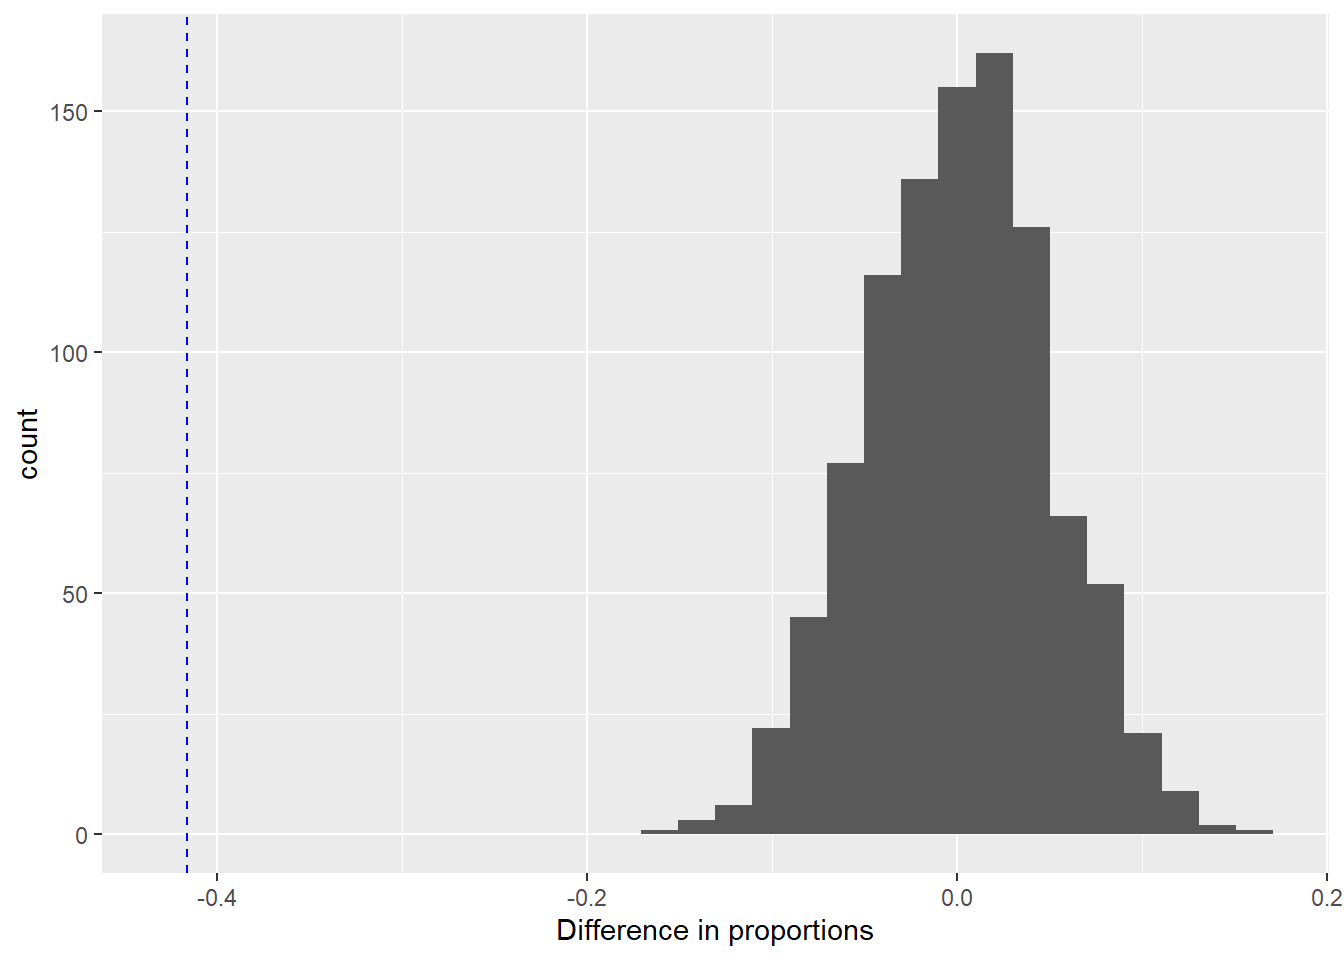
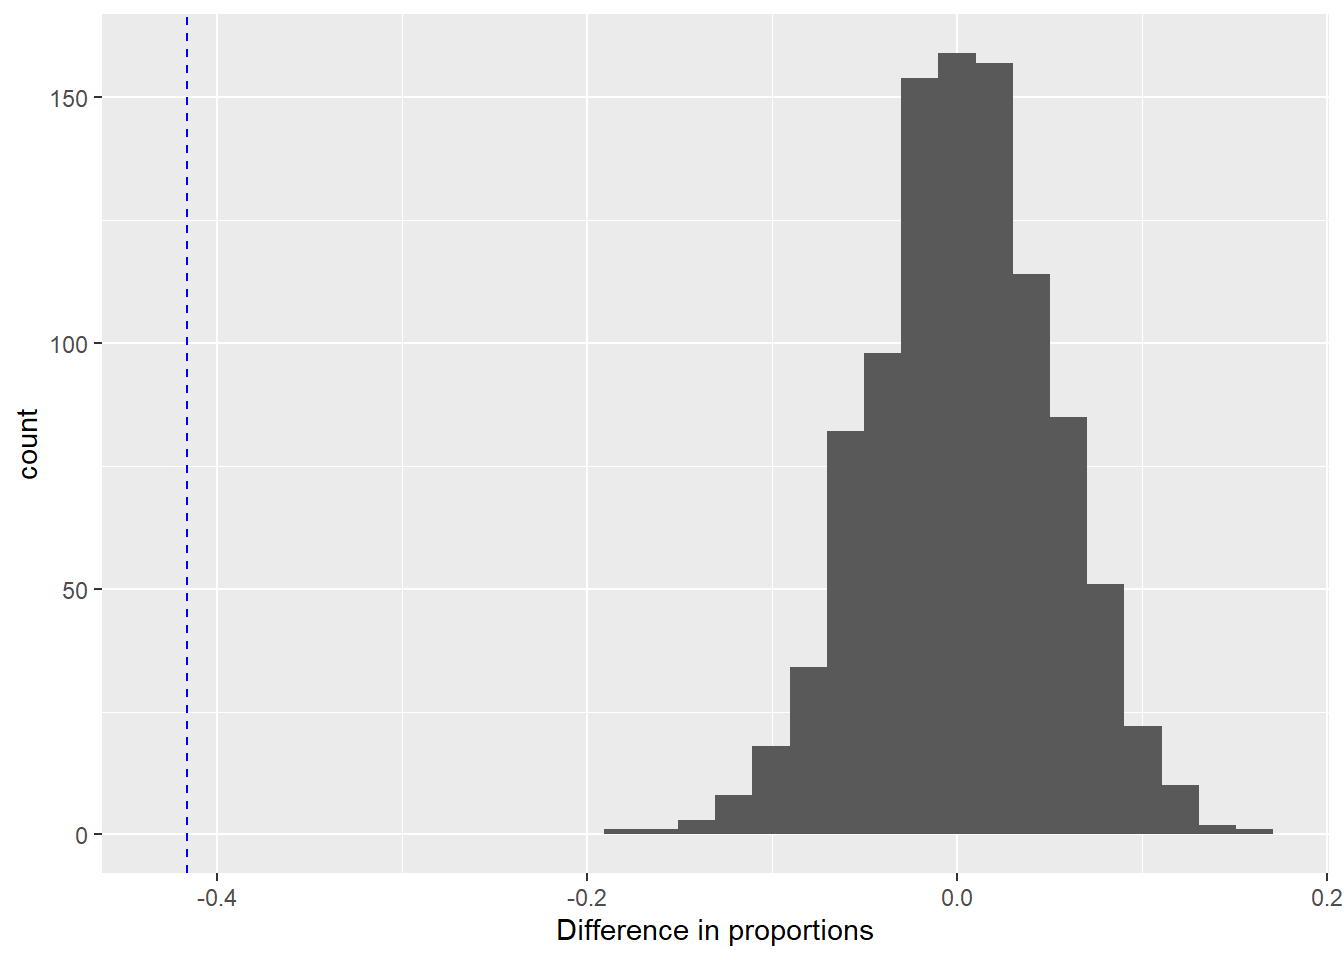
fix spacing

diff --git a/docs/Section 2 Proportions.html b/docs/Section 2 Proportions.html
@@ -394,12 +394,12 @@ window.Quarto = {
 <span id="cb7-5"><a href="#cb7-5" aria-hidden="true" tabindex="-1"></a><span class="fu">head</span>(boot.sample)</span></code></pre></div><button title="Copy to Clipboard" class="code-copy-button"><i class="bi"></i></button></div>
 <div class="cell-output cell-output-stdout">
 <pre><code>  sim   stat
-1   1 0.4375
+1   1 0.5625
 2   2 0.5625
-3   3 0.3750
+3   3 0.2500
 4   4 0.6875
-5   5 0.2500
-6   6 0.5000</code></pre>
+5   5 0.3750
+6   6 0.3750</code></pre>
 </div>
 </div>
 <p>We can plot these <span class="math inline">\(\hat p_{pb}\)</span>, and see how unusual our observed test statistic is.</p>
@@ -761,13 +761,13 @@ window.Quarto = {
 <div class="code-copy-outer-scaffold"><div class="sourceCode cell-code" id="cb25"><pre class="sourceCode r code-with-copy"><code class="sourceCode r"><span id="cb25-1"><a href="#cb25-1" aria-hidden="true" tabindex="-1"></a>malaria.null<span class="ot">&lt;-</span><span class="fu">do</span>(<span class="dv">1000</span>)<span class="sc">*</span><span class="fu">diffmean</span>(Response <span class="sc">==</span> <span class="st">"Malaria"</span> <span class="sc">~</span> <span class="fu">shuffle</span>(Treatment),<span class="at">data=</span>malariadf)</span>
 <span id="cb25-2"><a href="#cb25-2" aria-hidden="true" tabindex="-1"></a><span class="fu">head</span>(malaria.null)</span></code></pre></div><button title="Copy to Clipboard" class="code-copy-button"><i class="bi"></i></button></div>
 <div class="cell-output cell-output-stdout">
-<pre><code>     diffmean
-1 -0.12992731
-2  0.03371074
-3  0.01325599
-4  0.12575715
-5 -0.04810828
-6 -0.04810828</code></pre>
+<pre><code>      diffmean
+1 -0.058335663
+2 -0.017426149
+3 -0.048108284
+4  0.003028609
+5 -0.017426149
+6  0.003028609</code></pre>
 </div>
 </div>
 <p>We’ll plot the null distribution, and to do this we’ll need the <code>ggplot2</code> library.</p>
@@ -861,12 +861,12 @@ window.Quarto = {
 <span id="cb35-9"><a href="#cb35-9" aria-hidden="true" tabindex="-1"></a><span class="fu">head</span>(boot.samples)</span></code></pre></div><button title="Copy to Clipboard" class="code-copy-button"><i class="bi"></i></button></div>
 <div class="cell-output cell-output-stdout">
 <pre><code>  sim stat_E stat_C diff
-1   1   0.45   0.35   NA
-2   2   0.35   0.15   NA
-3   3   0.65   0.30   NA
-4   4   0.45   0.30   NA
-5   5   0.50   0.40   NA
-6   6   0.50   0.30   NA</code></pre>
+1   1   0.60   0.20   NA
+2   2   0.35   0.25   NA
+3   3   0.65   0.20   NA
+4   4   0.60   0.40   NA
+5   5   0.50   0.25   NA
+6   6   0.60   0.35   NA</code></pre>
 </div>
 <div class="code-copy-outer-scaffold"><div class="sourceCode cell-code" id="cb37"><pre class="sourceCode r code-with-copy"><code class="sourceCode r"><span id="cb37-1"><a href="#cb37-1" aria-hidden="true" tabindex="-1"></a><span class="co">#Now find the differences#</span></span>
 <span id="cb37-2"><a href="#cb37-2" aria-hidden="true" tabindex="-1"></a></span>
@@ -875,12 +875,12 @@ window.Quarto = {
 <span id="cb37-5"><a href="#cb37-5" aria-hidden="true" tabindex="-1"></a><span class="fu">head</span>(boot.samples)</span></code></pre></div><button title="Copy to Clipboard" class="code-copy-button"><i class="bi"></i></button></div>
 <div class="cell-output cell-output-stdout">
 <pre><code>  sim stat_E stat_C diff
-1   1   0.45   0.35 0.10
-2   2   0.35   0.15 0.20
-3   3   0.65   0.30 0.35
-4   4   0.45   0.30 0.15
-5   5   0.50   0.40 0.10
-6   6   0.50   0.30 0.20</code></pre>
+1   1   0.60   0.20 0.40
+2   2   0.35   0.25 0.10
+3   3   0.65   0.20 0.45
+4   4   0.60   0.40 0.20
+5   5   0.50   0.25 0.25
+6   6   0.60   0.35 0.25</code></pre>
 </div>
 </div>
 <p>Now let’s plot the bootstrap distribution.</p>
@@ -915,7 +915,7 @@ window.Quarto = {
 <span id="cb40-4"><a href="#cb40-4" aria-hidden="true" tabindex="-1"></a><span class="co">#Print out just the first few#</span></span>
 <span id="cb40-5"><a href="#cb40-5" aria-hidden="true" tabindex="-1"></a><span class="fu">head</span>(rankdiff)</span></code></pre></div><button title="Copy to Clipboard" class="code-copy-button"><i class="bi"></i></button></div>
 <div class="cell-output cell-output-stdout">
-<pre><code>[1] -0.40 -0.25 -0.25 -0.25 -0.20 -0.20</code></pre>
+<pre><code>[1] -0.30 -0.25 -0.25 -0.25 -0.20 -0.20</code></pre>
 </div>
 <div class="code-copy-outer-scaffold"><div class="sourceCode cell-code" id="cb42"><pre class="sourceCode r code-with-copy"><code class="sourceCode r"><span id="cb42-1"><a href="#cb42-1" aria-hidden="true" tabindex="-1"></a><span class="co">#Lower endpoint is the 5th percentile (90% confidence)#</span></span>
 <span id="cb42-2"><a href="#cb42-2" aria-hidden="true" tabindex="-1"></a>lower<span class="ot">&lt;-</span>rankdiff[<span class="dv">50</span>]</span>
@@ -940,7 +940,7 @@ window.Quarto = {
 <div class="code-copy-outer-scaffold"><div class="sourceCode cell-code" id="cb46"><pre class="sourceCode r code-with-copy"><code class="sourceCode r"><span id="cb46-1"><a href="#cb46-1" aria-hidden="true" tabindex="-1"></a>SE<span class="ot">&lt;-</span><span class="fu">sd</span>(rankdiff)</span>
 <span id="cb46-2"><a href="#cb46-2" aria-hidden="true" tabindex="-1"></a>SE</span></code></pre></div><button title="Copy to Clipboard" class="code-copy-button"><i class="bi"></i></button></div>
 <div class="cell-output cell-output-stdout">
-<pre><code>[1] 0.146625</code></pre>
+<pre><code>[1] 0.1562026</code></pre>
 </div>
 </div>
 <p><br>
@@ -968,6 +968,7 @@ window.Quarto = {
 <p>We must meet similar conditions to ensure the sampling distribution of <span class="math inline">\(\hat p_1 - \hat p_2\)</span> is approximately normal:</p>
 <ul>
 <li><p><br>
+<br>
 </p></li>
 <li><p><br>
 <br>
@@ -1410,7 +1411,7 @@ X-squared = 6.0069, df = 2, p-value = 0.04962</code></pre>
     replicates)
 
 data:  mode
-X-squared = 6.0069, df = NA, p-value = 0.05395</code></pre>
+X-squared = 6.0069, df = NA, p-value = 0.04296</code></pre>
 </div>
 </div>
 
